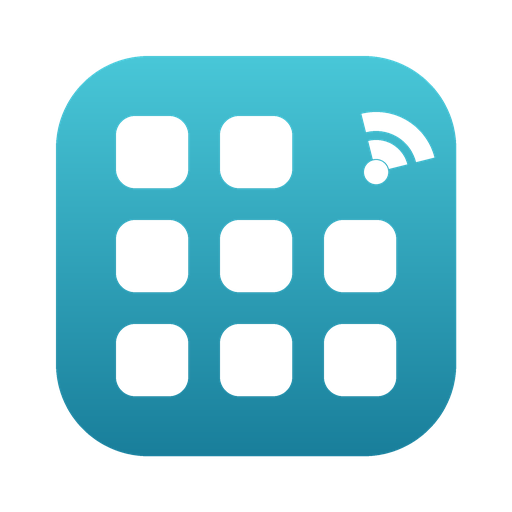
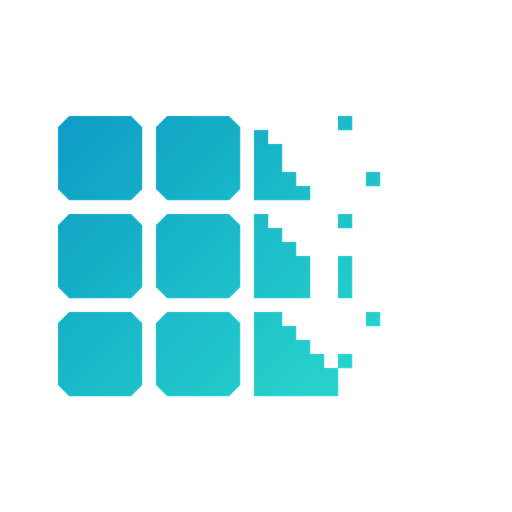
feat(assets): 图标改为 RS 家族风格
- 去掉圆角底板，改用 45° 切角方形，与 RS 官方 logo 的切角语言一致
- 取 RS logo 采样色：左上蓝青 (6,138,196) → 右下薄荷青 (52,242,206) 对角渐变
- 第三列按像素块沿对角线拆散、向右拖出零星像素，沿用 RS 的 dissolve 手法
- 透明底，深浅主题下都成立

diff --git a/gen_mod_icon.py b/gen_mod_icon.py
@@ -1,5 +1,9 @@
 #!/usr/bin/env python3
-"""生成模组图标：teal 渐变圆角块 + 无线格（3×3 缺一格）+ 信号弧。
+"""生成模组图标：与 Refined Storage 官方 logo 同一套语言。
+
+  · 切角方形（45° chamfer），不用圆角
+  · 左上偏蓝的青 → 右下偏绿的薄荷青，沿对角线渐变
+  · 右侧一格按像素块拆散、向右拖出零星像素（RS 的 dissolve 手法）
 
 输出
   assets/rswirelesscrafting/icon.png   512×512，Fabric / NeoForge 共用
@@ -7,6 +11,7 @@
 """
 
 import os
+import random
 
 from PIL import Image, ImageDraw
 
@@ -20,64 +25,93 @@ OUT_DOC = os.path.join(ROOT, "docs", "images", "mod-icon.png")
 SIZE = 512
 S = 4  # 超采样
 
-TOP = (79, 209, 224)
-BOTTOM = (18, 116, 146)
+# 取自 RS 官方 logo-icon.png 的采样色
+FROM = (6, 138, 196)
+TO = (52, 242, 206)
+
+CELL = 84
+GAP = 14
+X0 = 58
+Y0 = 116
+CUT = 11
+PIX = 14  # 拆散用的小方格边长
 
 
 def sc(v):
     return int(round(v * S))
 
 
-def gradient(w, h, top, bottom):
-    img = Image.new("RGB", (1, h))
+def octagon(draw, x, y, size, cut=CUT, fill=255):
+    pts = [
+        (x + cut, y), (x + size - cut, y), (x + size, y + cut),
+        (x + size, y + size - cut), (x + size - cut, y + size),
+        (x + cut, y + size), (x, y + size - cut), (x, y + cut),
+    ]
+    draw.polygon([(sc(px), sc(py)) for px, py in pts], fill=fill)
+
+
+def mask():
+    m = Image.new("L", (sc(SIZE), sc(SIZE)), 0)
+    d = ImageDraw.Draw(m)
+
+    row_solid = (0.55, 0.80, 1.00)  # 越靠下越完整，整体向右上角散开
+    steps = CELL // PIX
+    for row, thr in enumerate(row_solid):
+        y = Y0 + row * (CELL + GAP)
+        for col in range(3):
+            x = X0 + col * (CELL + GAP)
+            if col < 2:
+                octagon(d, x, y, CELL)
+                continue
+            # 第三列：沿对角线拆散，边缘干净、只留少量散点
+            for iy in range(steps):
+                for ix in range(steps):
+                    u = ix / (steps - 1)
+                    v = iy / (steps - 1)
+                    strength = u * 0.9 + (1 - v) * 0.6
+                    keep = min(max((thr - strength) * 5 + 0.5, 0.0), 1.0)
+                    if random.Random(row * 1000 + iy * 100 + ix).random() < keep:
+                        px = x + ix * PIX
+                        py = y + iy * PIX
+                        d.rectangle([sc(px), sc(py), sc(px + PIX), sc(py + PIX)], fill=255)
+            # 向右拖出的零星像素
+            for iy in range(steps):
+                for k in range(1, 4):
+                    if random.Random(7000 + row * 100 + iy * 10 + k).random() < 0.30 / k:
+                        px = x + CELL + (k - 1) * PIX
+                        py = y + iy * PIX
+                        d.rectangle([sc(px), sc(py), sc(px + PIX), sc(py + PIX)], fill=255)
+    return m
+
+
+def gradient(w, h):
+    img = Image.new("RGB", (w, h))
     px = img.load()
     for y in range(h):
-        t = y / max(h - 1, 1)
-        px[0, y] = tuple(int(round(top[i] + (bottom[i] - top[i]) * t)) for i in range(3))
-    return img.resize((w, h), Image.BILINEAR)
+        for x in range(0, w, 4):
+            t = x / w * 0.5 + y / h * 0.5
+            colour = tuple(int(round(FROM[i] + (TO[i] - FROM[i]) * t)) for i in range(3))
+            for k in range(4):
+                if x + k < w:
+                    px[x + k, y] = colour
+    return img
 
 
 def build():
     canvas = Image.new("RGBA", (sc(SIZE), sc(SIZE)), (0, 0, 0, 0))
-    mask = Image.new("L", (sc(SIZE), sc(SIZE)), 0)
-    d = ImageDraw.Draw(mask)
-
-    # 底板
-    d.rounded_rectangle([sc(56), sc(56), sc(456), sc(456)], radius=sc(92), fill=255)
-
-    # 挖出 3×3 格子，右上角那格留给信号弧
-    cell = 72
-    centers = (152, 256, 360)
-    for cy in centers:
-        for cx in centers:
-            if cx == 360 and cy == 152:
-                continue
-            d.rounded_rectangle(
-                [sc(cx - cell / 2), sc(cy - cell / 2), sc(cx + cell / 2), sc(cy + cell / 2)],
-                radius=sc(19), fill=0)
-
-    # 挖出两段信号弧（圆心落在右上那格的外角）
-    ax, ay = 376, 172
-    d.ellipse([sc(ax - 12), sc(ay - 12), sc(ax + 12), sc(ay + 12)], fill=0)
-    for radius, width in ((32, 19), (60, 19)):
-        d.arc([sc(ax - radius), sc(ay - radius), sc(ax + radius), sc(ay + radius)],
-              start=-104, end=-14, fill=0, width=sc(width))
-
-    fill = gradient(sc(SIZE), sc(SIZE), TOP, BOTTOM).convert("RGBA")
-    fill.putalpha(mask)
+    fill = gradient(sc(SIZE), sc(SIZE)).convert("RGBA")
+    fill.putalpha(mask())
     canvas.alpha_composite(fill)
     return canvas.resize((SIZE, SIZE), Image.LANCZOS)
 
 
 def main():
+    random.seed(20261029)
     icon = build()
     icon.save(OUT_MOD)
     print("wrote", OUT_MOD)
     icon.save(OUT_DOC)
     print("wrote", OUT_DOC)
-    for size in (16, 32, 64):
-        icon.resize((size, size), Image.LANCZOS).save(
-            os.path.join(ROOT, "_preview_%d.png" % size))
 
 
 if __name__ == "__main__":
